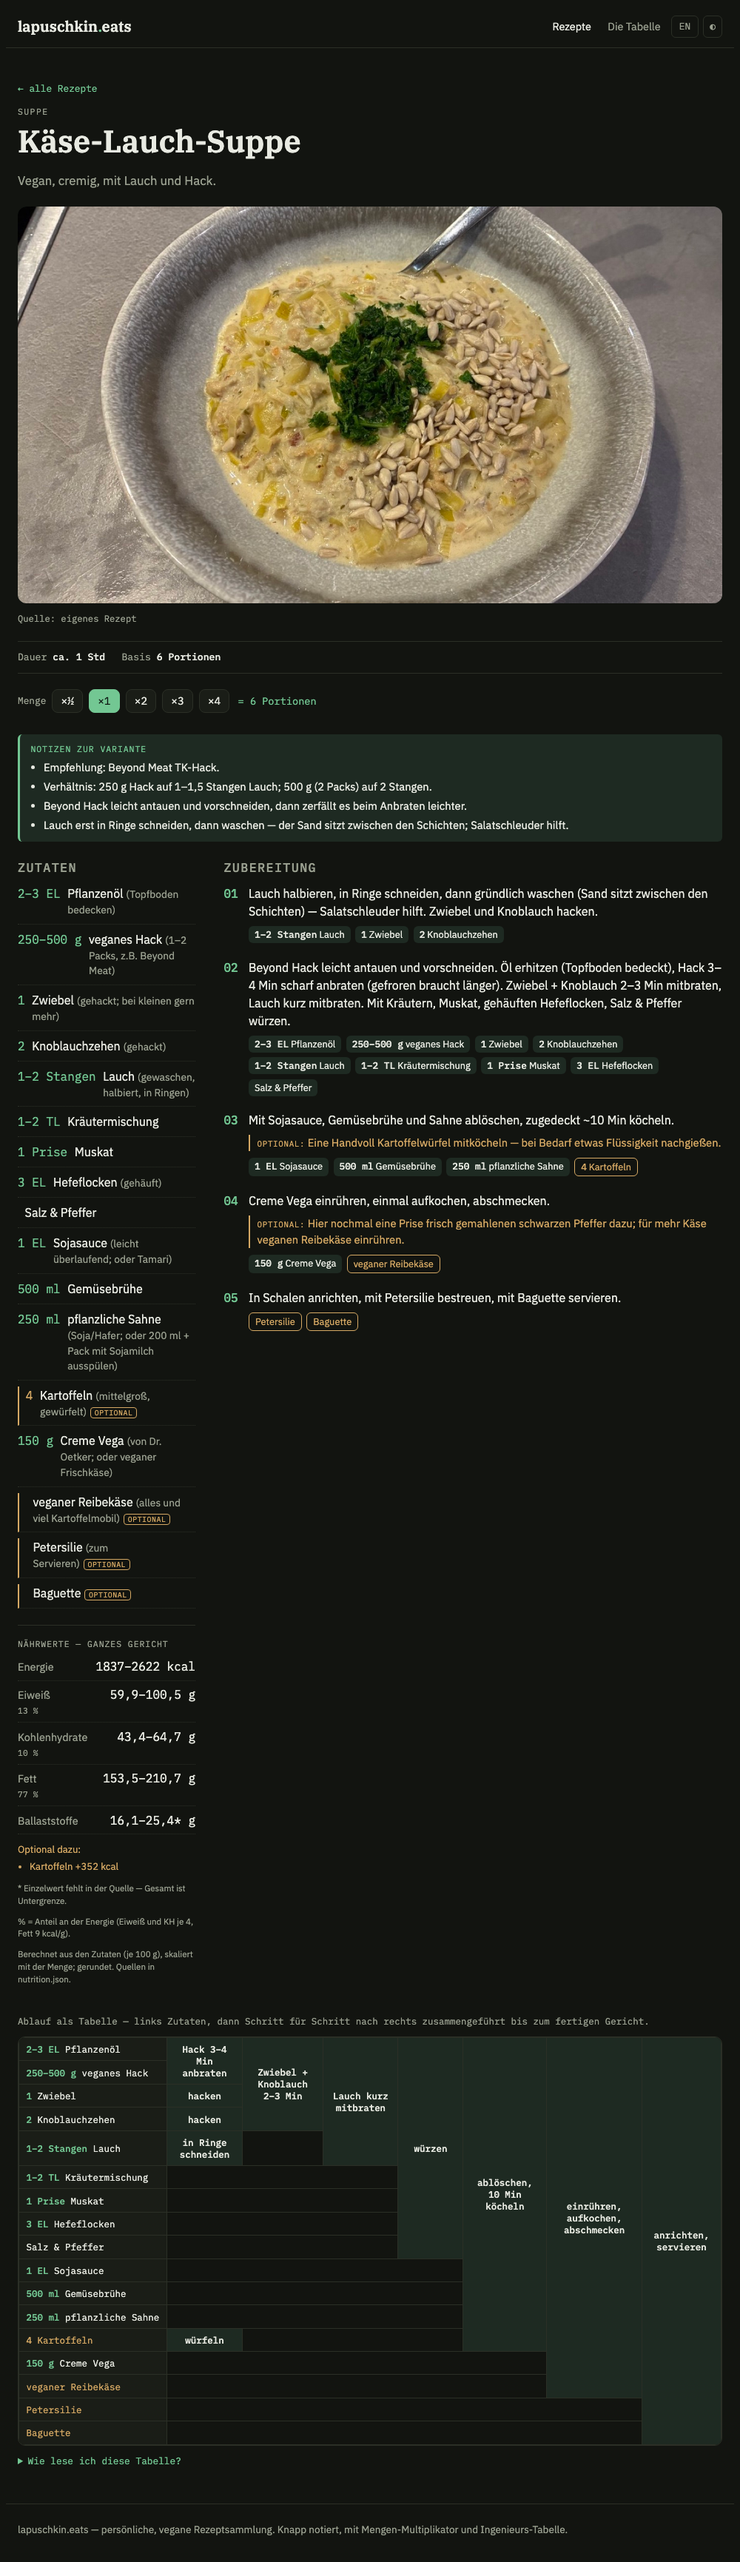
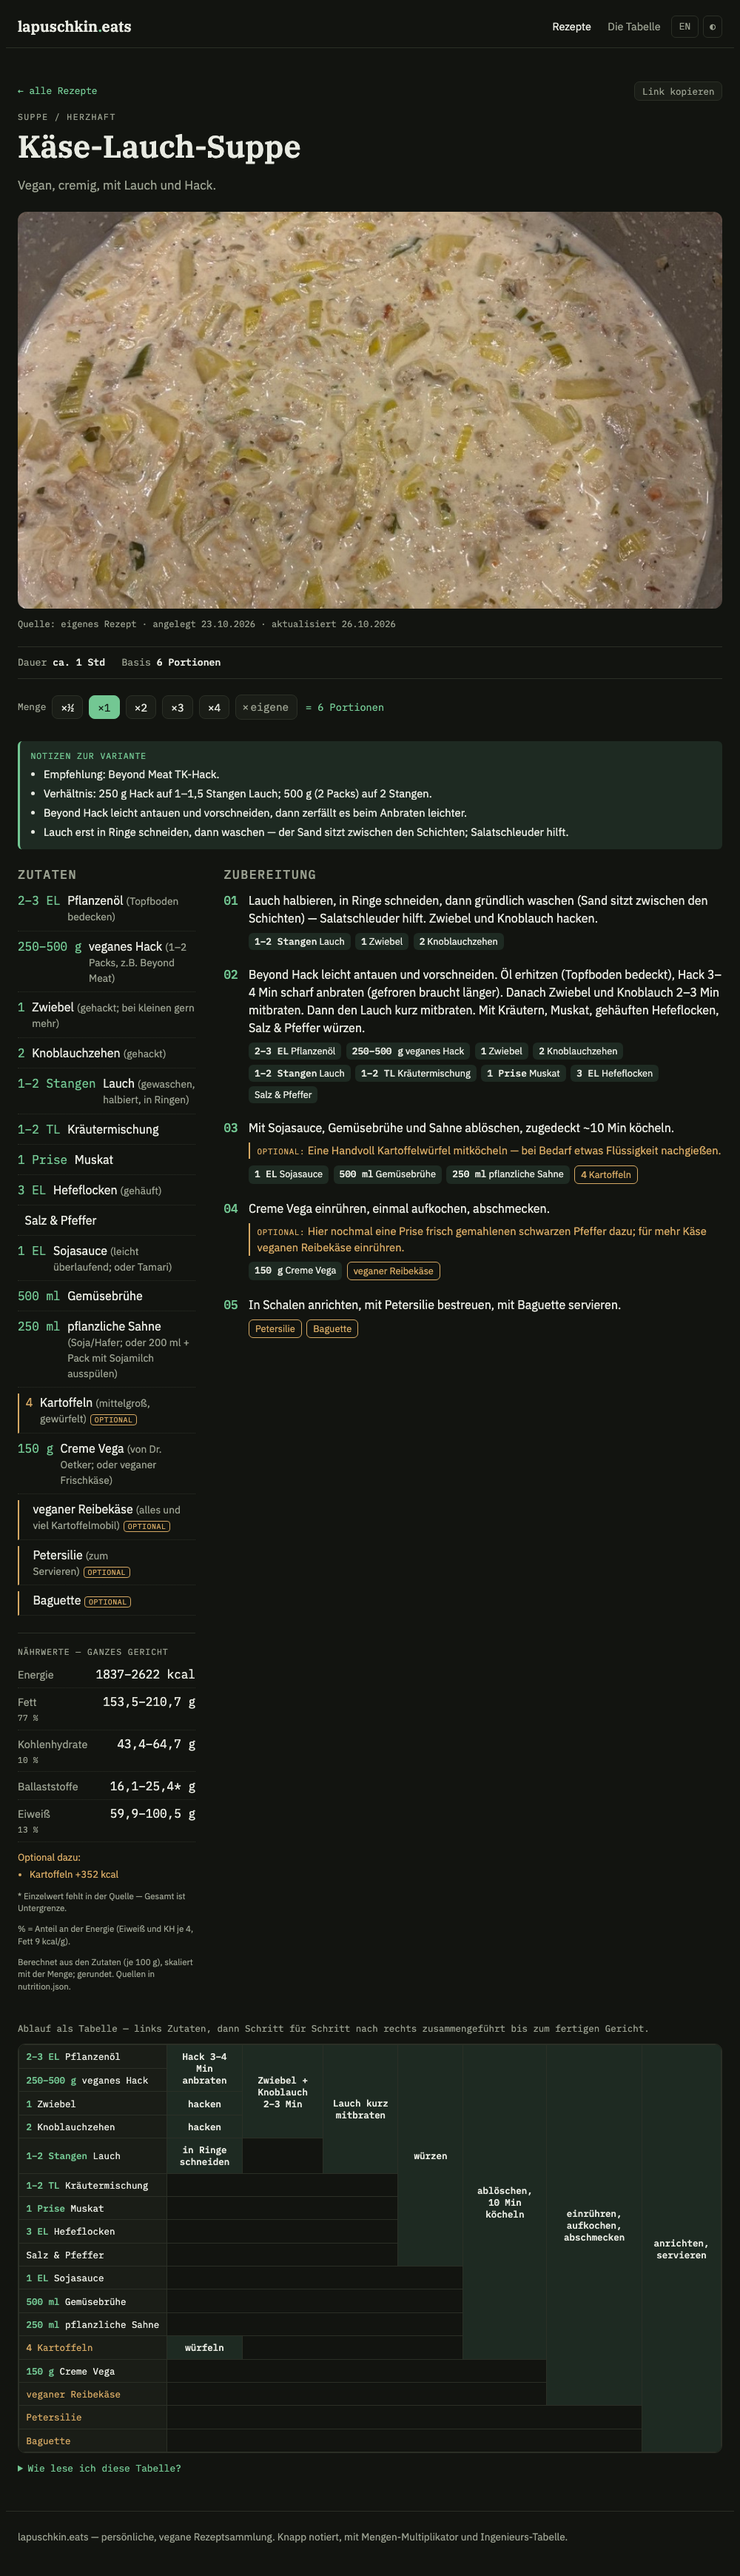
Docs: current data model + refreshed screenshots
- docs/DATENMODELL.md: document created/updated recipe fields, the
  ingredient 'food' key and a Naehrwerte (nutrition.json) section, tag
  filtering on the overview, and correct the routing description
  (path-based with a language param).
- screenshots/overview.png + recipe.png: regenerate against the current
  site (6 recipes, tag filter bar, reordered nutrition macros,
  created/updated source line, Link kopieren button).

diff --git a/docs/DATENMODELL.md b/docs/DATENMODELL.md
@@ -38,6 +38,8 @@ Ein Rezept ist eine **Gruppe** mit einer oder mehreren **Varianten**.
 | `subtitle` | optional. Ein Satz. |
 | `tags` | Liste kurzer Schlagworte, z. B. `["Suppe","herzhaft"]`. Keine Zeitangaben wie „schnell". |
 | `source` | optional. `{"name":"…","url":"…"}` — Quelle, wenn übernommen. Weglassen bei eigenen Rezepten. |
+| `created` | optional. `"JJJJ-MM-TT"` — Anlagedatum. Erscheint in der Quellenzeile als „angelegt …". |
+| `updated` | optional. `"JJJJ-MM-TT"` — Datum der letzten Änderung. Erscheint als „aktualisiert …", aber nur wenn es von `created` abweicht. Bei jeder inhaltlichen Änderung hochsetzen. |
 | `defaultVariant` | `id` der Standard-Variante (wird zuerst gezeigt). |
 | `variants` | Liste von Varianten (mindestens eine). |
 
@@ -67,6 +69,7 @@ Ein Rezept ist eine **Gruppe** mit einer oder mehreren **Varianten**.
 | `max` | optional. Zahl → macht einen Bereich („200–250 g"). |
 | `unit` | `"g"`,`"ml"`,`"l"`,`"EL"`,`"TL"`,`"Stange"`,`"Prise"`,`""` … (`""` für reine Stückzahl). |
 | `name` | Anzeigename („Räuchertofu"). |
+| `food` | optional. Schlüssel in `nutrition.json` für die Nährwertberechnung (s. u.). Für Zutaten mit Menge setzen; bei `amount: null` (nach Geschmack) unnötig. |
 | `note` | optional. Klammer-Zusatz („geschält", „2–3 Stück"). |
 | `optional` | optional. `true` → Badge „optional". |
 
@@ -84,6 +87,16 @@ Ein Rezept ist eine **Gruppe** mit einer oder mehreren **Varianten**.
 - `amount` gilt pro `baseServings` und wird mit dem gewählten Faktor multipliziert.
 - `g`/`ml`/`l`/`kg` werden als Dezimalzahl gezeigt (Komma), alles andere (EL/TL/Stück/Prise …) als Bruch (½ ¼ ⅓ …).
 - `max` → Bereich. `amount: null` → nur der Name (ohne Zahl).
+
+## Nährwerte (`nutrition.json`)
+
+Die Nährwerte unter den Zutaten werden **berechnet, nie im Rezept gespeichert** — so stimmen sie bei jeder Mengen- oder Zutatenänderung automatisch.
+
+- `nutrition.json` (Projektwurzel) hat eine geteilte `foods`-Map: `Schlüssel → { per100g {kcal,protein,carbs,fat,fiber}, g_per_unit {Einheit→Gramm pro 1 Einheit; g=1, ml=Dichte, EL/TL/Stück/Prise = übliche Gewichte}, source }`. Werte gelten je 100 g der Zutat **wie verwendet** (Gemüse roh, Linsen trocken, Flüssiges je 100 ml).
+- Jede Zutat mit Menge verweist per `"food": "<schlüssel>"` auf einen Eintrag. Fehlt `food`/Eintrag, markiert die Engine die Summe als unvollständig; fehlt ein Einzelwert, wird die Zahl als Untergrenze (`*`) gezeigt. `amount: null` (nach Geschmack) wird übersprungen.
+- Angezeigt wird die **Summe fürs ganze Gericht**, skaliert mit dem Multiplikator, plus der **Energie-Anteil** je Makro (Eiweiß und KH ×4, Fett ×9 kcal/g).
+- Reihenfolge und Beschriftung der Zeilen stehen in `nutrition.json` unter `macros` (aktuell: Energie, Fett, Kohlenhydrate, Ballaststoffe, Eiweiß).
+- **Quellen: europäisch bevorzugen** — Ciqual (ANSES, FR), CoFID (UK), BLS (DE), Open Food Facts für EU-Labels; USDA meiden. **Nichts erfinden — fehlende Werte leer lassen.**
 
 ## Mehrsprachig (DE/EN)
 
@@ -123,6 +136,8 @@ Tags sind kurze Schlagworte über dem Rezept. Einen **neuen Tag hinzufügen** he
 "tags": [ { "de": "süß", "en": "sweet" }, "Basis" ]
 ```
 Ein einfacher String wie `"Basis"` erscheint in beiden Sprachen gleich. Keine Zeit-Tags wie „schnell/langsam".
+
+Auf der Übersichtsseite lässt sich die Sammlung über eine Chip-Leiste nach Tags filtern (mehrere Tags = UND-Verknüpfung, „Alle" setzt zurück).
 
 ## Die Ingenieurs-Tabelle (`tree`)
 
@@ -221,9 +236,10 @@ Reine Ansichtslogik, keine Daten. Wichtige Funktionen:
 | Funktion | Aufgabe |
 |---|---|
 | `load()` | lädt `recipes/index.json` und alle Rezepte per `fetch` |
-| `route()` | Hash-Routing: `#<id>` → Rezept, `#about` → Infoseite, sonst Übersicht |
-| `indexHTML()` | die Übersicht (Karten) |
+| `route()` | Pfad-Routing: `/<id>` → Rezept, `/<id>/<variante>` → Variante direkt, `/about` → Infoseite, sonst Übersicht; `?l=de\|en` schaltet die Sprache. |
+| `indexHTML()` | die Übersicht (Karten) + Tag-Filter |
 | `recipeHTML()` / `ingAndSteps()` | eine Rezeptseite (Kopf, Varianten, Mengen, Zutaten, Schritte) |
+| `nutritionHTML()` | Nährwert-Block (ganzes Gericht, skaliert) |
 | `tableHTML()` | baut die Ingenieurs-Tabelle aus `tree` (Blätter → Spalten → Zellen mit rowspan/colspan) |
 | `num()` / `frac()` / `dec()` / `amtOnly()` | Mengenformatierung (Bruch vs. Dezimal, Skalierung) |
 | `favId()` / `setFav()` | persönlicher Favorit via `localStorage` |
